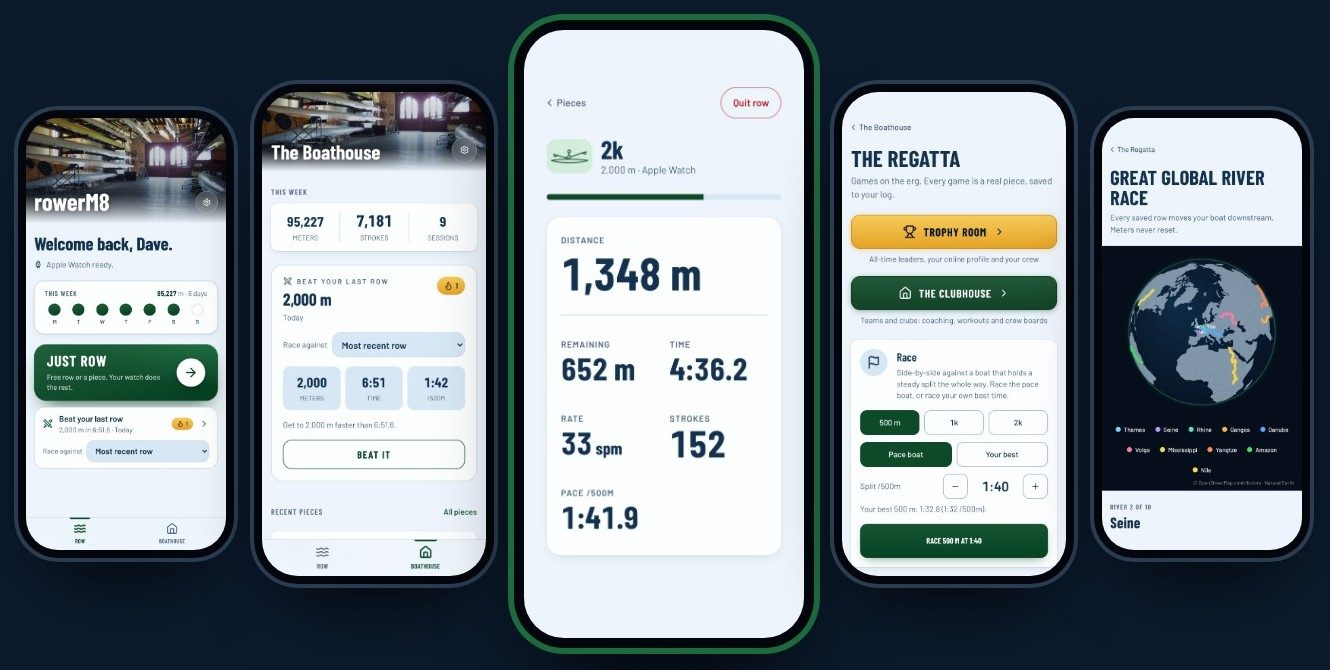
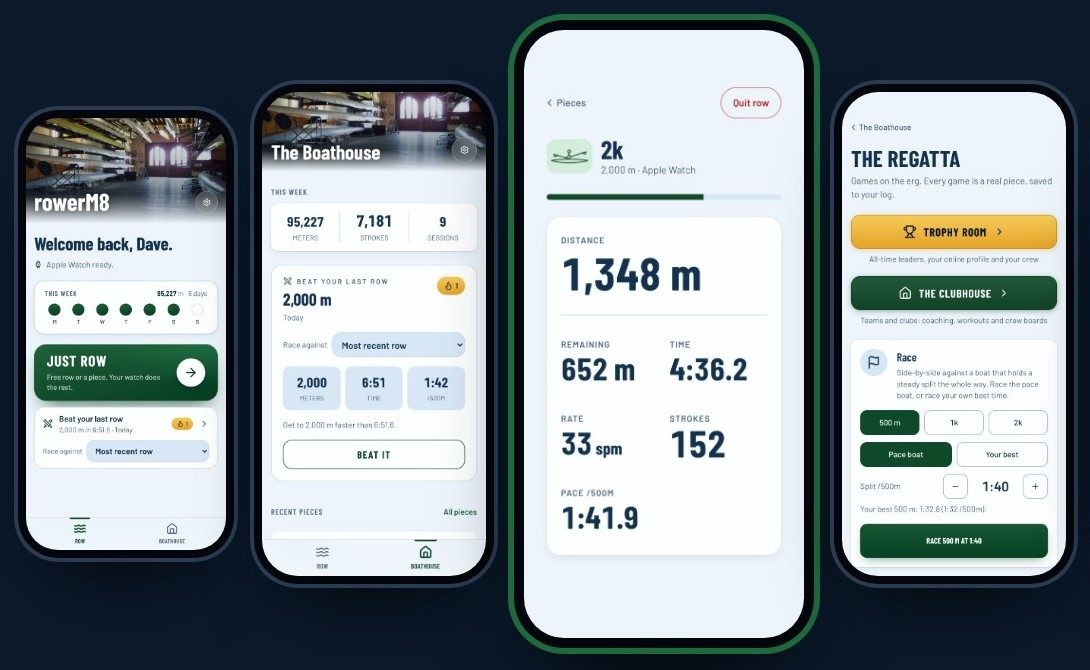
rowerM8 section: drop River Race screen and rivers line (River Row scrapped Oct 30)
Claude-Session: https://claude.ai/code/session_01JteuxUmFFZLM2cVuBCHgjZ

diff --git a/index.html b/index.html
@@ -38,12 +38,12 @@ a{color:#111}a:hover{color:#B3261E}
 <div style="flex:999 1 440px;min-width:0">
 <p class="bc" style="margin:0 0 18px;font-weight:700;font-size:20px;letter-spacing:.08em;color:#6FCB95;text-transform:none">rowerM8 &middot; BETA CLOSING SOON</p>
 <h2 class="bc" style="margin:0;font-weight:800;font-size:clamp(52px,6.4vw,96px);line-height:.88">Row with your Apple Watch.</h2>
-<p style="margin:24px 0 0;font-size:22px;line-height:1.45;color:#D3DAE4;max-width:560px">Your watch counts every stroke and the app turns it into real meters, pace and splits. Race your last row, track your weeks, work your way down ten of the world's great rivers.</p>
+<p style="margin:24px 0 0;font-size:22px;line-height:1.45;color:#D3DAE4;max-width:560px">Your watch counts every stroke and the app turns it into real meters, pace and splits. Race your last row, race a pace boat, track your weeks.</p>
 <p style="margin:18px 0 0;font-size:22px;line-height:1.45;max-width:560px">If you have an Apple Watch and a Concept2, I've got a few beta spots left.</p>
 <a class="bc" href="https://rowerm8.com" target="_blank" rel="noopener" style="display:inline-flex;align-items:center;min-height:58px;margin-top:30px;padding:0 30px;background:#1B6B3F;font-weight:700;font-size:26px;letter-spacing:.04em;text-decoration:none">Get in at rowerm8.com</a>
 </div>
 <div style="flex:1 1 460px;min-width:0">
-<img src="rowerm8-app.jpg" alt="rowerM8 app screens: Row home, The Boathouse, a live 2k piece, The Regatta and the Great Global River Race" style="width:100%;height:auto;display:block">
+<img src="rowerm8-app.jpg" alt="rowerM8 app screens: Row home, The Boathouse, a live 2k piece and The Regatta" style="width:100%;height:auto;display:block">
 </div></div></section>
 
 <section id="announcing" style="padding:88px 24px 72px">
